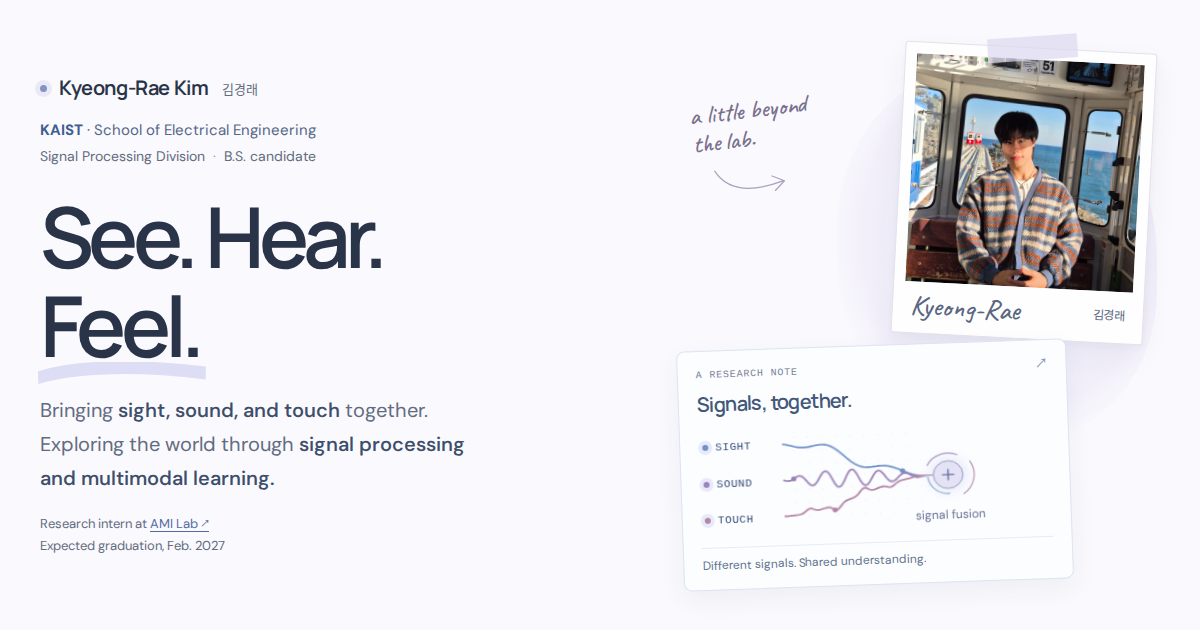
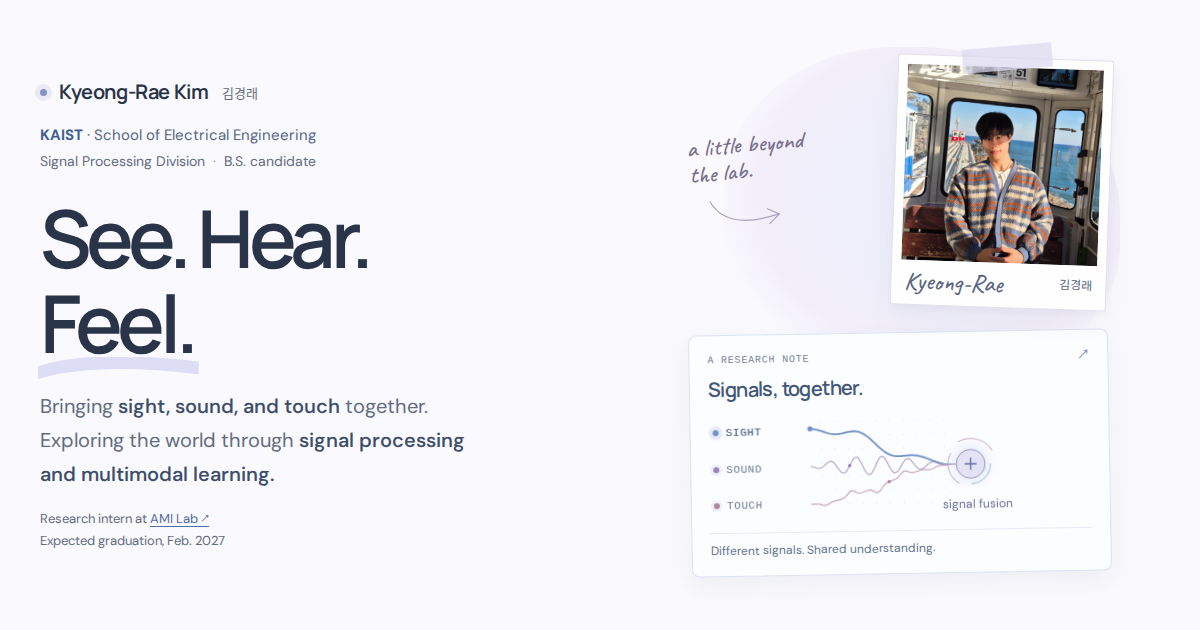
Fix cached profile assets and stabilize responsive album layout

diff --git a/style.css b/style.css
@@ -50,7 +50,8 @@ h3 { font-weight: 700; letter-spacing: -.035em; line-height: 1.4; }
 .primary-nav .nav-cv { border: 1px solid var(--line); border-radius: 4px; padding: 6px 14px; display: flex; gap: 20px; }
 .nav-cv:hover { background: var(--accent); border-color: var(--accent); }
 .menu-toggle { display: none; }
-.hero { min-height: 0; padding-top: 52px; display: grid; grid-template-columns: 1.1fr 1fr; column-gap: 45px; align-items: center; position: relative; }
+.hero { padding-top: 48px; display: grid; grid-template-columns: minmax(0, 1.15fr) minmax(0, 1fr); column-gap: 56px; align-items: center; position: relative; }
+.hero > *, .about-grid > *, .publication > *, .experience-grid > *, .credentials-grid > * { min-width: 0; }
 .hero-heading { position: relative; z-index: 2; padding-bottom: 18px; }
 .hero .eyebrow { display: flex; align-items: center; gap: 12px; }
 .hero-name { font: 650 19px/1.5 var(--heading); letter-spacing: -.02em; }
@@ -71,26 +72,26 @@ h1 { font-size: clamp(68px, 6.7vw, 93px); line-height: 1.06; font-weight: 600; l
 .hero-role { color: var(--muted); font-size: 13px; line-height: 1.7; margin-top: 17px; }
 .hero-role a { color: var(--blue); text-decoration: underline; text-underline-offset: 3px; }
 .hero-role > span { display: block; }
-.hero-actions { display: flex; align-items: center; gap: 28px; margin-top: 25px; }
+.hero-actions { display: flex; align-items: center; flex-wrap: wrap; gap: 20px 28px; margin-top: 25px; }
 .button { display: inline-flex; align-items: center; gap: 26px; border-radius: 7px; font-size: 14px; font-weight: 500; padding: 14px 20px; transition: background .2s, transform .2s; }
 .button-dark { background: #3e527b; color: var(--white); }
 .button-dark:hover { background: #33476c; transform: translateY(-2px); }
 .button span { font-size: 18px; }
 .text-link { font-size: 14px; font-weight: 500; display: inline-flex; gap: 16px; align-items: center; }
 .text-link:hover { text-decoration: underline; text-underline-offset: 5px; }
-.hero-art { position: relative; align-self: center; width: 100%; height: 630px; margin: 0; isolation: isolate; }
-.hero-art::before { content: ''; position: absolute; width: 365px; height: 410px; top: 24px; right: 3px; border-radius: 43% 51% 40% 48%; background: radial-gradient(ellipse at 55% 45%, #e6ecfb 0, #f0ecf9 60%, transparent 74%); opacity: .8; z-index: -1; }
+.hero-art { position: relative; display: grid; grid-template-columns: minmax(0, 1fr) auto; align-items: center; gap: 28px 14px; width: 100%; max-width: 470px; padding: 10px; margin: 0 0 0 auto; isolation: isolate; }
+.hero-art::before { content: ''; position: absolute; width: 90%; height: 330px; top: 0; right: 0; border-radius: 43% 51% 40% 48%; background: radial-gradient(ellipse at 55% 45%, #e6ecfb 0, #f0ecf9 60%, transparent 74%); opacity: .8; z-index: -1; }
 .portrait { margin: 0; }
-.hero-portrait { position: absolute; top: 5px; right: 27px; width: 306px; background: #fffefe; padding: 11px 11px 0; border: 1px solid #e3e1ec; box-shadow: 0 12px 30px #3846620e, 1px 3px 7px #38466208; border-radius: 3px; transform: rotate(3deg); z-index: 1; }
+.hero-portrait { position: relative; grid-column: 2; width: 236px; max-width: 100%; background: #fffefe; padding: 9px 9px 0; border: 1px solid #e3e1ec; box-shadow: 0 12px 30px #3846620e, 1px 3px 7px #38466208; border-radius: 3px; transform: rotate(2deg); z-index: 1; }
 .hero-portrait::before { content: ''; position: absolute; z-index: 2; width: 88px; height: 24px; top: -12px; left: calc(50% - 44px); background: #dcd9efb5; border-left: 1px solid #eeecf680; border-right: 1px solid #eeecf680; transform: rotate(-7deg); }
-.portrait-frame { aspect-ratio: 1; overflow: hidden; background: #e9edf5; }
-.portrait-frame img { width: 100%; height: 100%; object-fit: cover; object-position: 50% 56%; }
-.portrait figcaption { display: flex; justify-content: space-between; align-items: center; gap: 10px; min-height: 51px; padding: 1px 6px 4px; color: #596681; }
-.portrait figcaption span:first-child { font: 500 28px/1.2 var(--hand); }
+.portrait-frame { position: relative; aspect-ratio: 1 / 1; overflow: hidden; background: #e9edf5; }
+.portrait-frame img { position: absolute; inset: 0; width: 100%; height: 100%; object-fit: cover; object-position: 50% 56%; }
+.portrait figcaption { display: flex; justify-content: space-between; align-items: center; gap: 10px; min-height: 44px; padding: 1px 4px 4px; color: #596681; }
+.portrait figcaption span:first-child { font: 500 25px/1.2 var(--hand); }
 .portrait figcaption span:last-child { font-size: 12px; }
-.album-note { position: absolute; top: 64px; left: 3px; color: #79708e; font: 500 25px/1.1 var(--hand); transform: rotate(-7deg); }
+.album-note { grid-column: 1; color: #79708e; font: 500 24px/1.1 var(--hand); transform: rotate(-5deg); }
 .album-note svg { width: 86px; height: 50px; margin: 5px 0 0 14px; fill: none; stroke: #aaa0be; stroke-width: 1.5; stroke-linecap: round; stroke-linejoin: round; }
-.signal-note { position: absolute; width: min(422px, 93%); left: 0; bottom: 0; z-index: 3; padding: 18px 20px 17px; background: #fcfdff; border: 1px solid #dce3f2; box-shadow: 0 9px 24px #324e7710; border-radius: 8px; transform: rotate(-2deg); }
+.signal-note { position: relative; grid-column: 1 / -1; width: 100%; max-width: 422px; min-width: 0; padding: 18px 20px 17px; background: #fcfdff; border: 1px solid #dce3f2; box-shadow: 0 9px 24px #324e7710; border-radius: 8px; transform: rotate(-1deg); }
 .art-topline { display: flex; align-items: center; justify-content: space-between; color: #79839a; font: 10px/1.5 var(--mono); letter-spacing: .08em; }
 .art-topline > span:last-child { font: 17px/1 var(--body); color: #8698ba; }
 .signal-note-title { font-size: 20px; letter-spacing: -.03em; line-height: 1.3; margin-top: 8px; color: #425779; font-weight: 600; }
@@ -106,7 +107,7 @@ h1 { font-size: clamp(68px, 6.7vw, 93px); line-height: 1.06; font-weight: 600; l
 .signal-label.is-active i { box-shadow: 0 0 0 4px #e8eafb; }
 .fusion-label { position: absolute; left: 61%; top: 75%; font: 13px/1.3 var(--body); color: #687195; white-space: nowrap; }
 .art-bottomline { color: #63738e; font-size: 12px; line-height: 1.5; padding-top: 8px; border-top: 1px solid #e6ebf4; }
-.hero-footer { grid-column: 1/-1; width: 100%; display: flex; align-self: end; align-items: center; justify-content: space-between; border-top: 1px solid var(--line); padding: 22px 0; margin-top: 37px; color: var(--muted); font: 10px var(--mono); letter-spacing: .03em; }
+.hero-footer { grid-column: 1/-1; width: 100%; display: flex; flex-wrap: wrap; gap: 16px; align-self: end; align-items: center; justify-content: space-between; border-top: 1px solid var(--line); padding: 22px 0; margin-top: 32px; color: var(--muted); font: 10px var(--mono); letter-spacing: .03em; }
 .hero-footer a { display: flex; align-items: center; gap: 12px; }
 .hero-footer > span { display: flex; gap: 15px; }
 .scroll-icon { font: 19px var(--body); }
@@ -219,15 +220,10 @@ a.inline-result:hover { text-decoration: underline; text-underline-offset: 4px; 
 .portrait.will-reveal { transform: translateY(20px) rotate(2deg); }
 .portrait.will-reveal.is-visible { transform: translateY(0) rotate(2deg); }
 
-@media (min-width: 1600px) { .hero { min-height: 780px; } }
 @media (max-width: 1180px) {
   .shell { width: calc(100% - 72px); }
   .header-note { display: none; }
   .primary-nav { margin-left: auto; gap: 22px; }
-  .hero { min-height: 660px; }
-  h1 { font-size: 7.2vw; }
-  .about-grid { grid-template-columns: .8fr 1.2fr .7fr; gap: 30px; }
-  .about-copy .lead { font-size: 19px; }
   .publication { gap: 36px; }
   .news-grid { grid-template-columns: .8fr 1.9fr; gap: 30px; }
   .contact-star { font-size: 185px; }
@@ -238,20 +234,7 @@ a.inline-result:hover { text-decoration: underline; text-underline-offset: 4px; 
   .header-inner { gap: 20px; }
   .primary-nav { gap: 16px; }
   .primary-nav > a { font-size: 11px; }
-  .hero { min-height: 610px; padding-top: 55px; }
-  .hero-art { margin-right: -20px; }
-  h1 { font-size: 7.7vw; }
-  .hero-description { font-size: 16px; }
-  .hero-actions { gap: 18px; }
   .button { padding: 13px 16px; gap: 16px; font-size: 11px; }
-  .hero-actions .text-link { font-size: 11px; gap: 10px; }
-  .art-bottomline { font-size: 8px; gap: 12px; padding: 0; }
-  .art-topline { font-size: 8px; padding: 0 12px; }
-  .hero-footer > span { font-size: 8px; gap: 12px; }
-  .about-grid { grid-template-columns: 1.5fr .8fr; }
-  .section-intro { grid-column: 1/-1; }
-  .section-intro h2 br { display: none; }
-  .portrait { max-width: 250px; }
   .news-grid { grid-template-columns: 1fr; gap: 28px; }
   .news-grid h2 br { display: none; }
   .news-list li { grid-template-columns: 90px 1fr 14px; }
@@ -289,35 +272,9 @@ a.inline-result:hover { text-decoration: underline; text-underline-offset: 4px; 
   .menu-toggle span { font-size: 20px; line-height: 1; }
   .primary-nav { width: 100%; gap: 12px 22px; padding: 12px 0 4px; flex-wrap: wrap; }
   .primary-nav > a { font-size: 13px; }
-  .hero { grid-template-columns: 1fr; padding-top: 51px; min-height: auto; }
-  .hero-heading { padding-bottom: 0; }
-  .hero .eyebrow { font-size: 10px; }
-  h1 { font-size: clamp(53px, 11.5vw, 78px); line-height: 1.09; margin: 25px 0 25px; }
-  .sense svg { height: 17px; bottom: -4px; }
-  .hero-description { font-size: 17px; line-height: 1.65; }
-  .hero-actions { gap: 28px; margin-top: 27px; }
   .button { font-size: 12px; padding: 14px 17px; gap: 25px; }
-  .hero-actions .text-link { font-size: 12px; }
-  .hero-art { width: min(400px, 100%); margin: 45px auto 0; }
-  .signal-field { aspect-ratio: 1.3; }
-  .art-topline { padding: 0 10px; }
-  .signal-label { font-size: 8px; }
-  .label-vision { left: 8%; }
-  .label-sound { right: 5%; }
-  .label-space { bottom: 0; }
-  .art-bottomline { margin-top: 15px; }
-  .hero-footer { margin-top: 28px; padding-block: 20px; font-size: 8px; }
-  .hero-footer > span { display: none; }
   .section-label { font-size: 10px; margin-bottom: 18px; }
   h2 { font-size: 34px; }
-  .about-grid { grid-template-columns: 1fr; gap: 28px; }
-  .section-intro { grid-column: auto; }
-  .about-copy { font-size: 14px; }
-  .about-copy .lead { font-size: 21px; }
-  .portrait { grid-row: 2; width: 210px; justify-self: center; margin: 8px 0 12px; }
-  .portrait-frame { aspect-ratio: 1; }
-  .portrait-frame img { object-position: 50% 54%; }
-  .about-copy { grid-row: 3; }
   .social-links { gap: 28px; }
   .news-section { padding-block: 48px; }
   .news-grid h2 { font-size: 28px; }
@@ -365,74 +322,62 @@ a.inline-result:hover { text-decoration: underline; text-underline-offset: 4px; 
   .site-footer p { font-size: 9px; }
   .site-footer .footer-inner > div { width: 100%; margin-left: 0; justify-content: space-between; padding-top: 5px; }
 }
-/* The album becomes a single, centered composition on smaller screens. */
-@media (min-width: 1600px) { .hero { min-height: 0; } }
+
+/* Album elements stay in the grid flow so fonts and viewport changes cannot overlap them. */
 @media (max-width: 1180px) {
-  .hero { min-height: 0; column-gap: 30px; padding-top: 46px; }
-  .hero-art { height: 598px; }
-  .hero-portrait { width: 276px; right: 10px; }
-  .album-note { top: 32px; font-size: 22px; }
+  .hero { column-gap: 36px; padding-top: 40px; }
+  h1 { font-size: clamp(64px, 6.6vw, 82px); }
   .hero-description { font-size: 18px; }
   .hero-affiliation { font-size: 14px; }
   .hero-affiliation > span { font-size: 13px; }
-  .about-grid { grid-template-columns: .8fr 1.75fr; gap: 44px; }
+  .album-note { font-size: 22px; }
+  .about-grid { grid-template-columns: minmax(0, .8fr) minmax(0, 1.75fr); gap: 44px; }
   .about-copy .personal-note { font-size: 31px; }
 }
 @media (max-width: 900px) {
-  .hero { grid-template-columns: 1.08fr 1fr; column-gap: 20px; }
+  .hero { grid-template-columns: minmax(0, 1.08fr) minmax(0, 1fr); column-gap: 24px; }
   .hero-heading { padding-bottom: 0; }
-  .hero-art { height: 580px; margin: 0; }
-  .hero-portrait { width: 244px; right: 0; top: 33px; }
-  .album-note { top: 1px; left: 4px; font-size: 21px; }
-  .album-note br { display: none; }
-  .album-note svg { display: none; }
-  .signal-note { width: 100%; padding: 16px; bottom: 5px; }
-  .signal-field { height: 145px; }
-  .signal-label { font-size: 11px; }
-  .art-bottomline { font-size: 12px; }
-  .fusion-label { font-size: 12px; }
-  h1 { font-size: clamp(64px,8vw,76px); }
+  h1 { font-size: clamp(54px, 8vw, 70px); }
   .hero-name { font-size: 17px; }
   .hero-description { font-size: 17px; }
   .hero-description .desktop-break { display: none; }
-  .hero-actions { gap: 20px; flex-wrap: wrap; }
+  .hero-actions { gap: 18px; }
   .hero-actions .button, .hero-actions .text-link { font-size: 13px; }
+  .hero-art { grid-template-columns: minmax(0, 1fr); gap: 20px; }
+  .hero-portrait { grid-column: 1; width: 208px; justify-self: end; }
+  .album-note { font-size: 22px; }
+  .album-note br { display: none; }
+  .album-note svg { display: none; }
+  .signal-note { padding: 16px; }
+  .signal-field { height: 145px; }
+  .signal-label { font-size: 11px; left: 0; }
+  .fusion-label { font-size: 12px; }
   .hero-footer > span { font-size: 8px; }
-  .about-grid { grid-template-columns: .75fr 1.4fr; gap: 32px; }
-  .section-intro { grid-column: auto; }
+  .about-grid { grid-template-columns: minmax(0, .75fr) minmax(0, 1.4fr); gap: 32px; }
   .section-intro h2 { font-size: 33px; }
-  .section-intro h2 br { display: initial; }
   .about-copy { font-size: 16px; }
   .about-copy .personal-note { font-size: 29px; }
 }
 @media (max-width: 680px) {
-  .hero { grid-template-columns: 1fr; padding-top: 35px; min-height: 0; }
+  .hero { grid-template-columns: minmax(0, 1fr); padding-top: 32px; gap: 0; }
   .hero .hero-name { font-size: 18px; }
   .hero-affiliation { font-size: 14px; margin-top: 14px; }
   .hero-affiliation > span { font-size: 12px; }
-  h1 { font-size: clamp(68px,17vw,88px); margin: 24px 0 27px; }
-  .hero-description { font-size: 18px; }
+  h1 { font-size: clamp(56px, 15.5vw, 80px); line-height: 1.09; margin: 24px 0 27px; }
+  .sense svg { height: 17px; bottom: -4px; }
+  .hero-description { font-size: 18px; line-height: 1.65; }
   .hero-role { font-size: 13px; }
-  .hero-actions { gap: 25px; margin-top: 24px; }
-  .hero-art { width: min(420px,100%); height: 610px; margin: 35px auto 0; }
-  .hero-portrait { width: 272px; right: 16px; top: 45px; max-width: none; margin: 0; }
-  .hero-portrait .portrait-frame { aspect-ratio: 1; }
-  .hero-portrait .portrait-frame img { object-position: 50% 56%; }
-  .album-note { left: 4px; top: 6px; font-size: 22px; }
-  .signal-note { width: 93%; bottom: 0; padding: 16px 18px; }
-  .signal-field { aspect-ratio: auto; height: 145px; }
-  .signal-label { font-size: 11px; left: 0; }
-  .label-vision { top: 17%; }
-  .label-sound { top: 45%; right: auto; }
-  .label-touch { top: 73%; }
-  .art-topline { padding: 0; font-size: 10px; }
-  .art-bottomline { margin: 0; font-size: 12px; }
-  .hero-footer { margin-top: 30px; font-size: 9px; }
+  .hero-actions { gap: 22px; margin-top: 24px; }
+  .hero-art { width: 100%; max-width: 400px; gap: 24px; margin: 34px auto 0; padding: 10px; }
+  .hero-portrait { width: 208px; justify-self: center; }
+  .album-note { justify-self: center; }
+  .signal-note { padding: 16px; }
+  .hero-footer { margin-top: 28px; padding-block: 20px; font-size: 9px; }
+  .hero-footer > span { display: none; }
   .motion-toggle { font-size: 10px; }
-  .about-grid { grid-template-columns: 1fr; gap: 28px; }
+  .about-grid { grid-template-columns: minmax(0, 1fr); gap: 28px; }
   .section-intro h2 { font-size: 34px; }
   .section-intro h2 br { display: none; }
-  .about-copy { grid-row: auto; font-size: 16px; }
   .about-copy .personal-note { font-size: 30px; }
   .news-list p { font-size: 14px; }
   .publication-summary { font-size: 15px; }
@@ -442,9 +387,7 @@ a.inline-result:hover { text-decoration: underline; text-underline-offset: 4px; 
   .hero-affiliation { font-size: 13px; }
   .hero-affiliation > span { font-size: 11px; }
   .hero-actions { gap: 18px; }
-  .hero-art { height: 583px; }
-  .hero-portrait { width: 249px; right: 8px; }
-  .signal-note { width: 98%; }
+  .hero-portrait { width: 196px; }
   .header-note { max-width: 143px; }
 }
 @media (prefers-reduced-motion: reduce) {

diff --git a/index.html b/index.html
@@ -14,8 +14,8 @@
   <meta property="og:image" content="https://byulharang.github.io/images/social-preview.png">
   <meta name="twitter:card" content="summary_large_image">
   <link rel="icon" href="assets/favicon.svg" type="image/svg+xml">
-  <link rel="stylesheet" href="style.css">
-  <script src="script.js" defer></script>
+  <link rel="stylesheet" href="style.css?v=3a905842b9b2">
+  <script src="script.js?v=c3d1c7e2dfe4" defer></script>
 </head>
 <body>
   <a class="skip-link" href="#main">Skip to content</a>

diff --git a/script.js b/script.js
@@ -182,9 +182,8 @@ function drawSignal(time) {
 
 function resizeCanvas() {
   if (!context) return;
-  const bounds = canvas.getBoundingClientRect();
-  canvasWidth = bounds.width;
-  canvasHeight = bounds.height;
+  canvasWidth = canvas.clientWidth;
+  canvasHeight = canvas.clientHeight;
   const pixelRatio = Math.min(window.devicePixelRatio || 1, 2);
   canvas.width = Math.round(canvasWidth * pixelRatio);
   canvas.height = Math.round(canvasHeight * pixelRatio);

diff --git a/README.md b/README.md
@@ -30,6 +30,8 @@ Open `index.html` directly in a browser. The page and its fonts are self-contain
   Adjust `.portrait-frame img` → `object-position` in `style.css` to reposition
   the crop. The hero uses a square photograph in a paper-style album frame.
 - Colors are CSS variables at the top of `style.css`.
+- When changing `style.css` or `script.js`, update its `?v=` value in
+  `index.html` so returning visitors load the matching assets after deployment.
 - Update `cv.html` alongside homepage changes, then print it to PDF from a
   browser with A4 paper, background graphics enabled, and browser headers and
   footers disabled. Save the output as `cv.pdf`.
